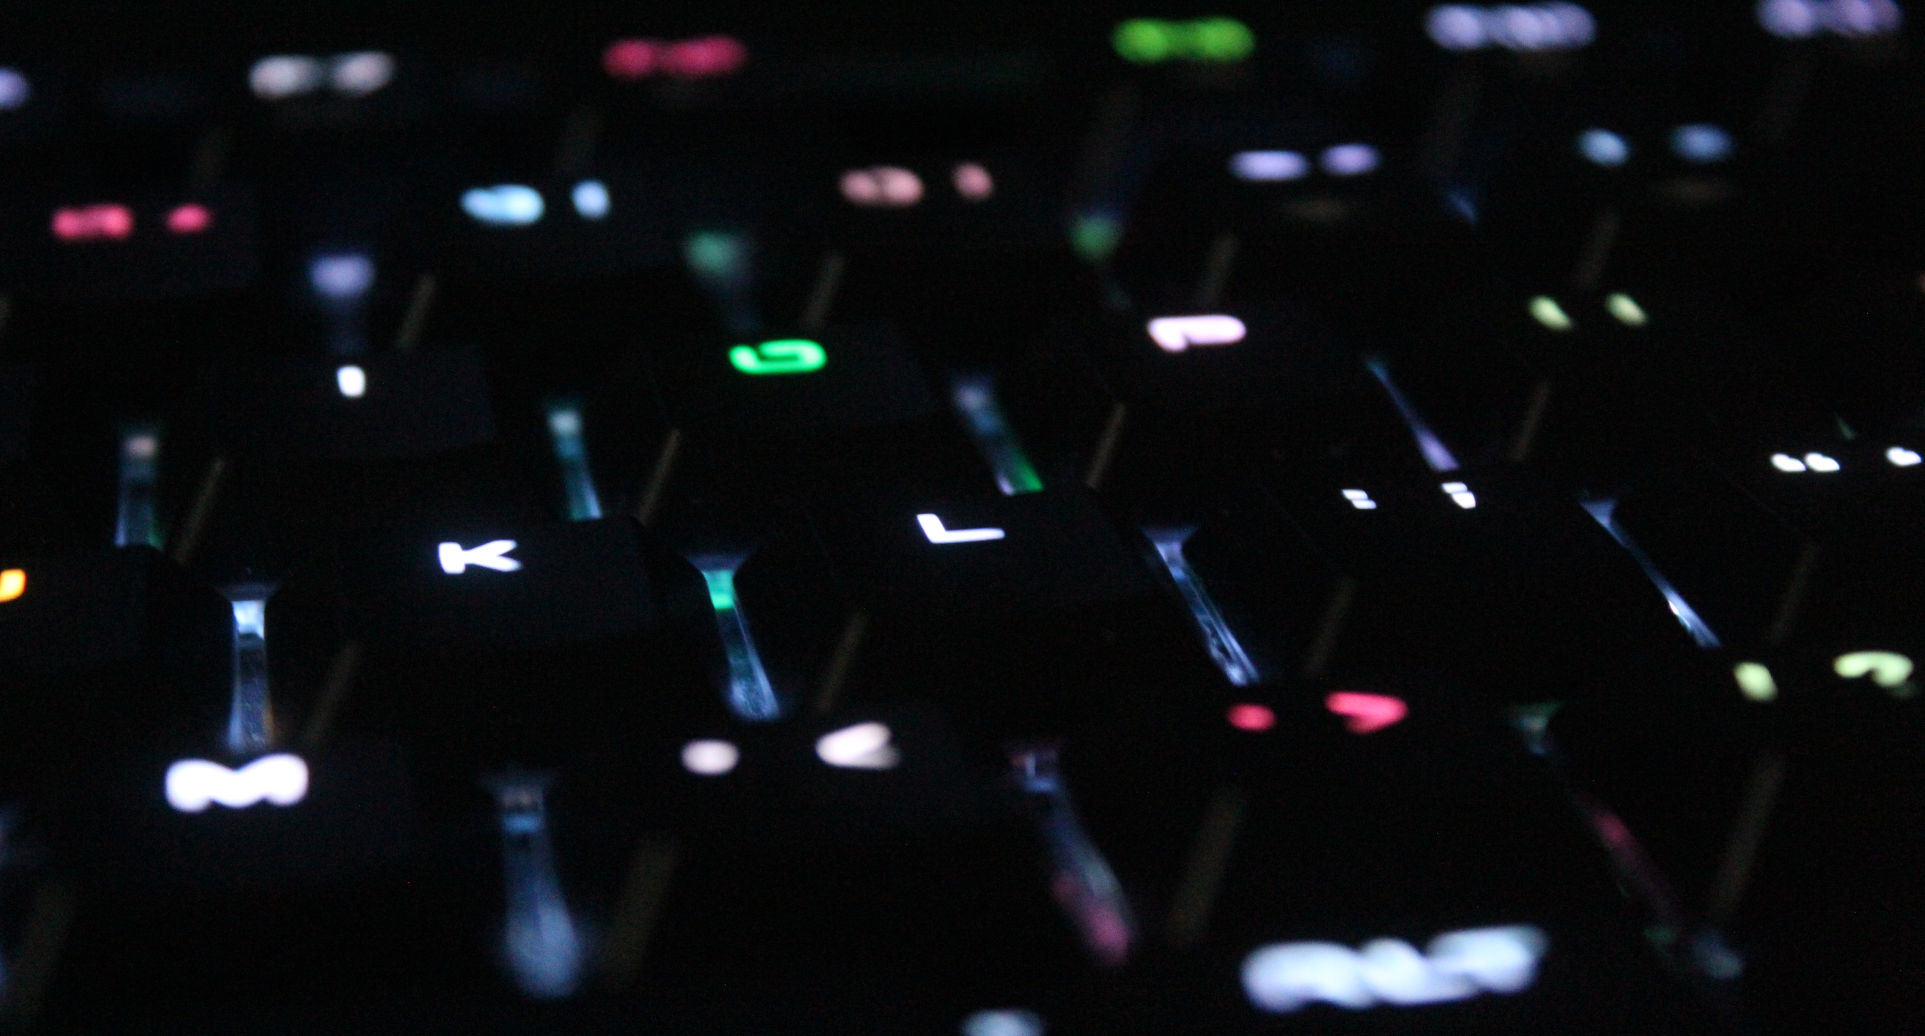
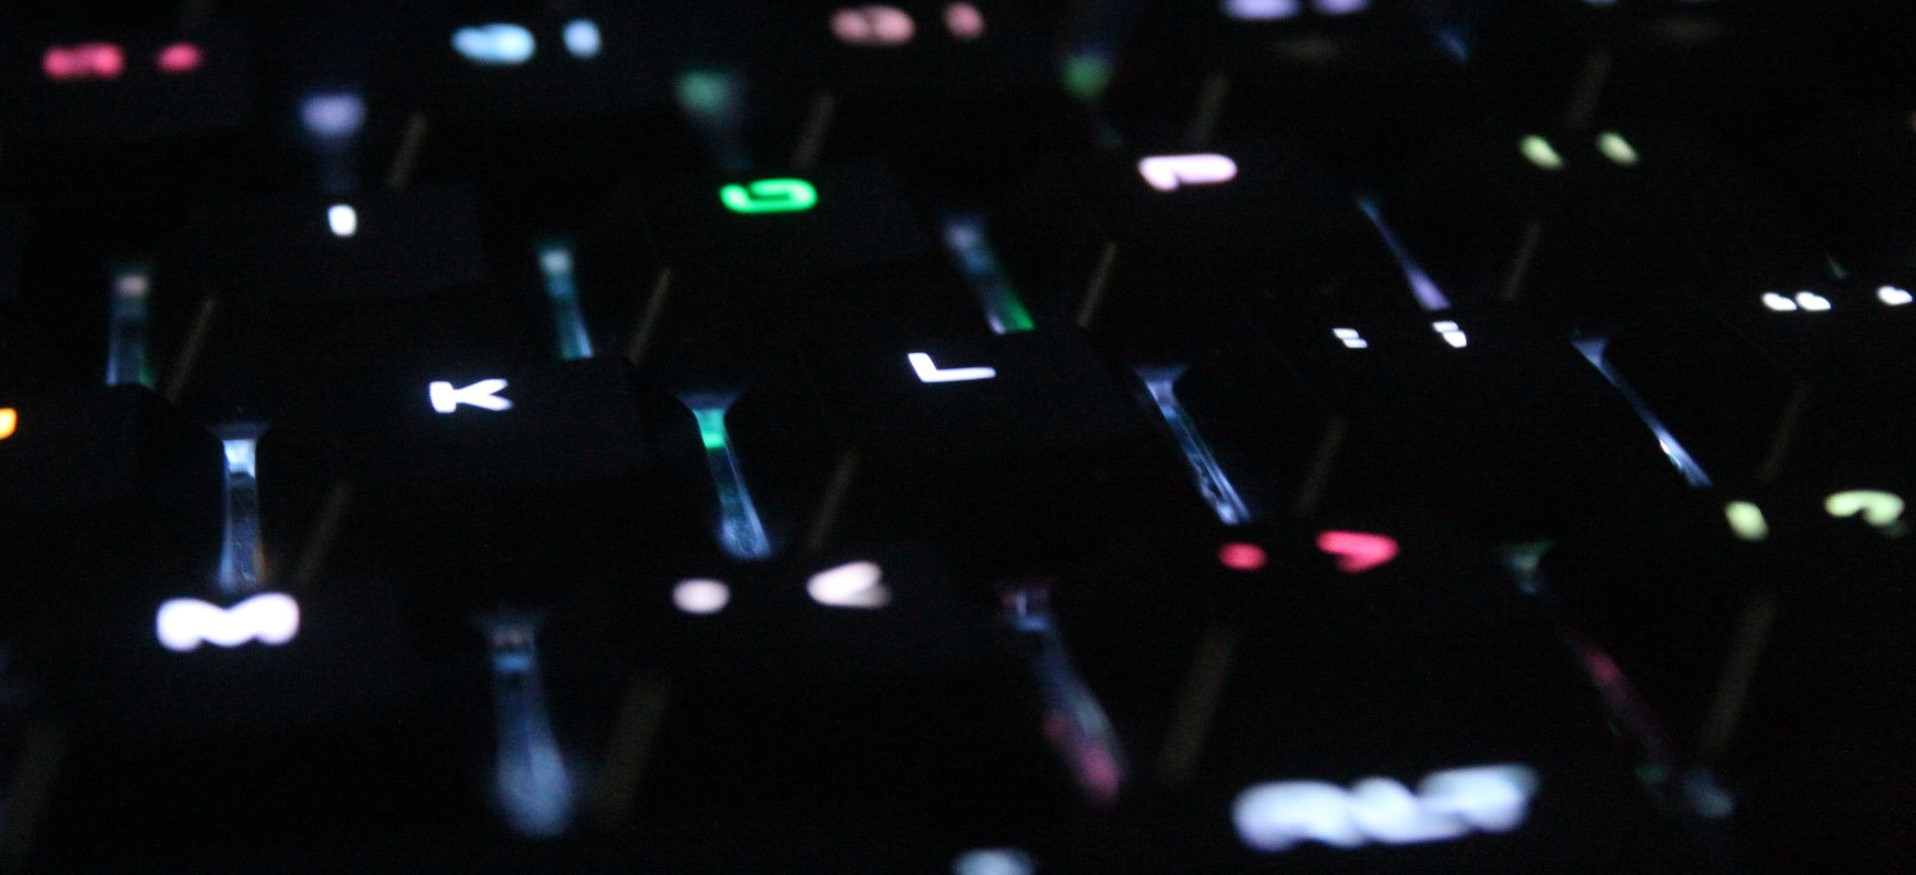
test

diff --git a/kczq/index.html b/kczq/index.html
@@ -82,7 +82,7 @@
     
     <main class="main-content">
       
-      <section class="site-section-hero bg-image mb-5" style="background-image: url('Assets/Header/main-bg1.jpg');" data-stellar-background-ratio="0.5" id="section-home">
+      <section class="site-section-hero bg-image mb-5" style="background-image: url('Assets/Header/gamingkb1.jpg');" data-stellar-background-ratio="0.5" id="section-home">
       
         <div class="row justify-content-center align-items-center">
          
